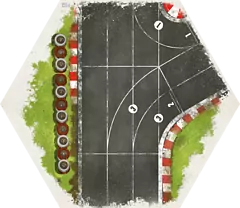
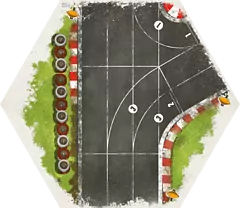
Adjust danger level of Y-junction tiles #151 and #152
Previously the Errata PDF document listed side "a" of tiles #151 and #152
to have low (Yellow) danger level. Later during the DIRT campaign an GT
Errata pack was printed used a medium (Orange) danger level instead, so
we adjust the level accordingly.

Also the images have been modified to contain the actual danger signs.

Fixes issue #16.

Changed region(s): [[0.6708, 0.8942, 0.7583, 0.9808], [0.2625, 0.0288, 0.35, 0.1154], [0.9042, 0.4327, 0.9625, 0.5192]]

diff --git a/src/tile.rs b/src/tile.rs
@@ -1759,9 +1759,9 @@ const TILE_INFOS: [TileInfo; 271] = [
     TileInfo::new(tile!(149, b), 1, TA, DM, [CN, CS1P, CL2, CR2, CN, CS1M], [EN, ER3, ES3, ES3, EN, EL3]),
     TileInfo::new(tile!(150, a), 1, TA, DM, [CS0, CS1P, CS1M, CS0, CS1P, CS1M], [ES3, ER3, EL3, ES3, ER3, EL3]),
     TileInfo::new(tile!(150, b), 1, TA, DH, [CS0, CS1P, CS1M, CS0, CS1P, CS1M], [ES2, ER2, EL2, ES2, ER2, EL2]),
-    TileInfo::new(tile!(151, a), 1, TA, DL, [CJS0L2, CJL1R2, CN, CJS0R1, CN, CN], [ES3, ES3, EN, ES3, EN, EN]),
+    TileInfo::new(tile!(151, a), 1, TA, DM, [CJS0L2, CJL1R2, CN, CJS0R1, CN, CN], [ES3, ES3, EN, ES3, EN, EN]),
     TileInfo::new(tile!(151, b), 1, TA, DH, [CJS0L2, CJL1R2, CN, CJS0R1, CN, CN], [ES2, ES2, EN, ES2, EN, EN]),
-    TileInfo::new(tile!(152, a), 1, TA, DL, [CJS0R2, CN, CN, CJS0L1, CN, CJR1L2], [ES3, EN, EN, ES3, EN, ES3]),
+    TileInfo::new(tile!(152, a), 1, TA, DM, [CJS0R2, CN, CN, CJS0L1, CN, CJR1L2], [ES3, EN, EN, ES3, EN, ES3]),
     TileInfo::new(tile!(152, b), 1, TA, DH, [CJS0R2, CN, CN, CJS0L1, CN, CJR1L2], [ES2, EN, EN, ES2, EN, ES2]),
     TileInfo::new(tile!(153, a), 1, TA, DH, [CS0, CS0, CN, CS0, CS0, CN], [ES3, ES2, EN, ES3, ES2, EN]),
     TileInfo::new(tile!(153, b), 1, TA, DH, [CS0, CN, CS0, CS0, CN, CS0], [ES2, EN, ES2, ES2, EN, ES2]),
@@ -2250,8 +2250,8 @@ mod tests {
         let summary = tiles.danger_level_summary();
         assert_eq!(summary, vec![
             DangerLevelSummary::new(Some(DangerLevel::None), 13),
-            DangerLevelSummary::new(Some(DangerLevel::Low), 83),
-            DangerLevelSummary::new(Some(DangerLevel::Medium), 113),
+            DangerLevelSummary::new(Some(DangerLevel::Low), 81),
+            DangerLevelSummary::new(Some(DangerLevel::Medium), 115),
             DangerLevelSummary::new(Some(DangerLevel::High), 62),
         ]);
     }
